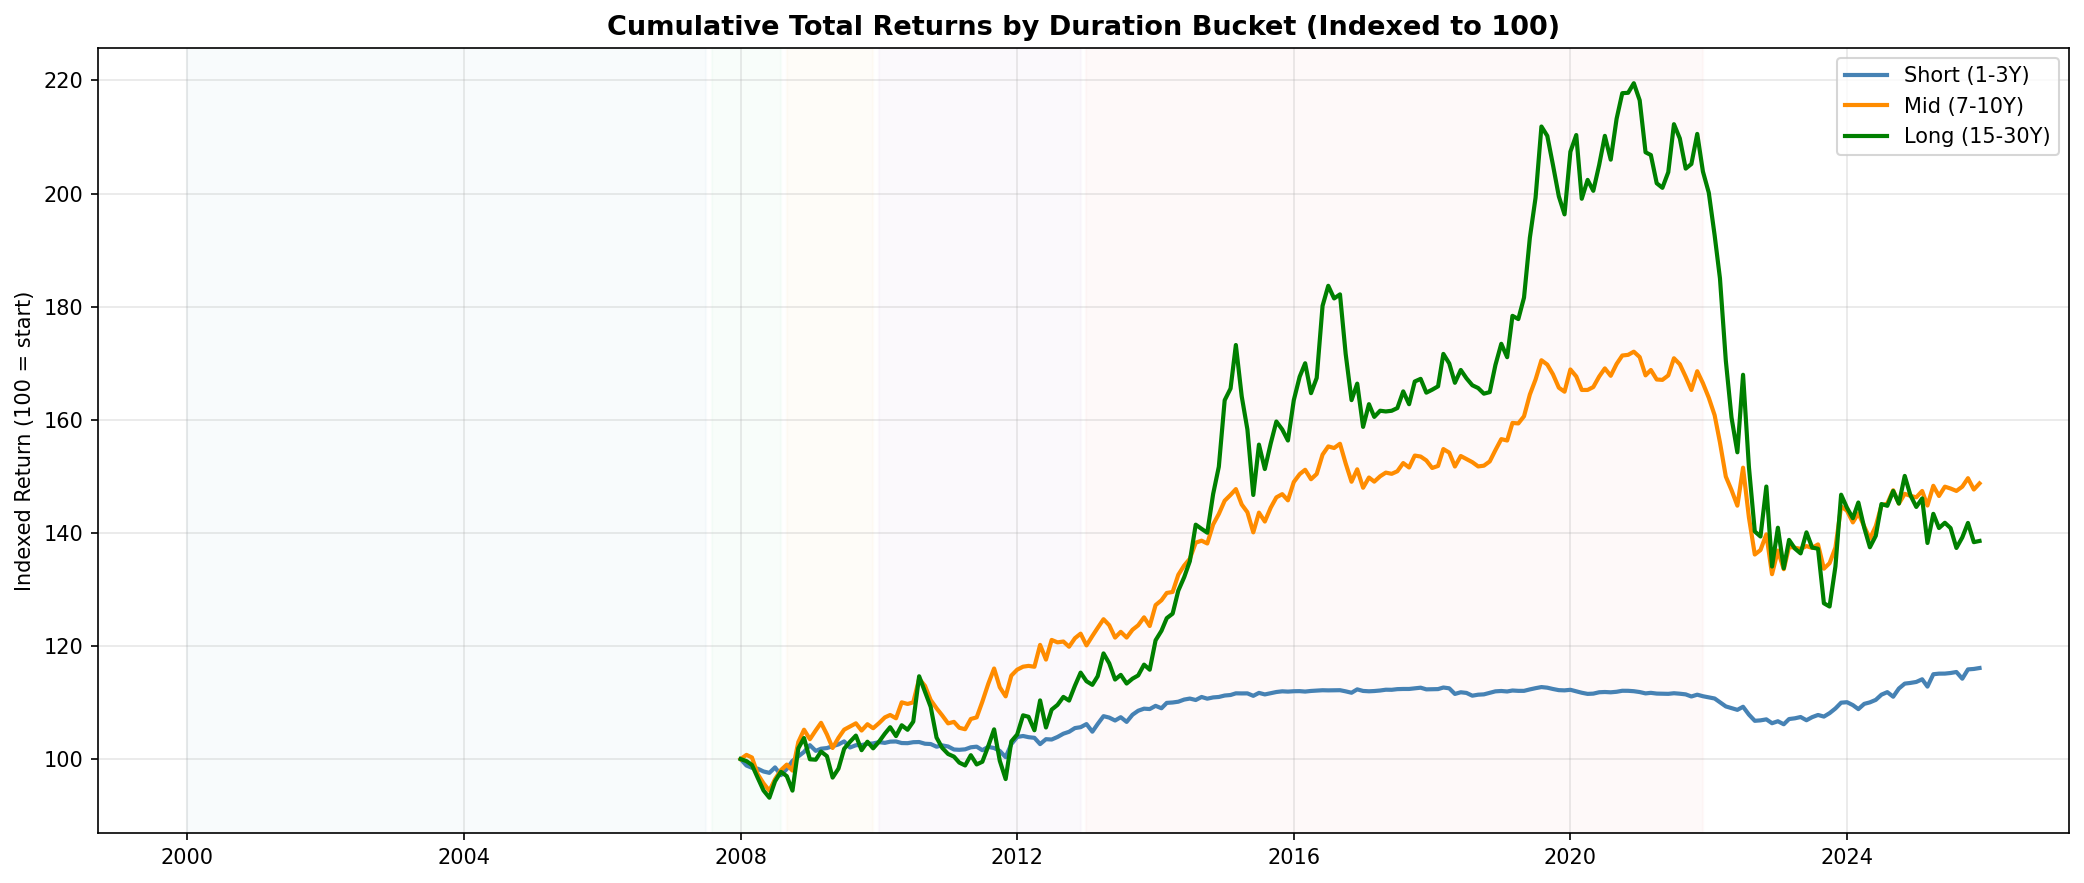
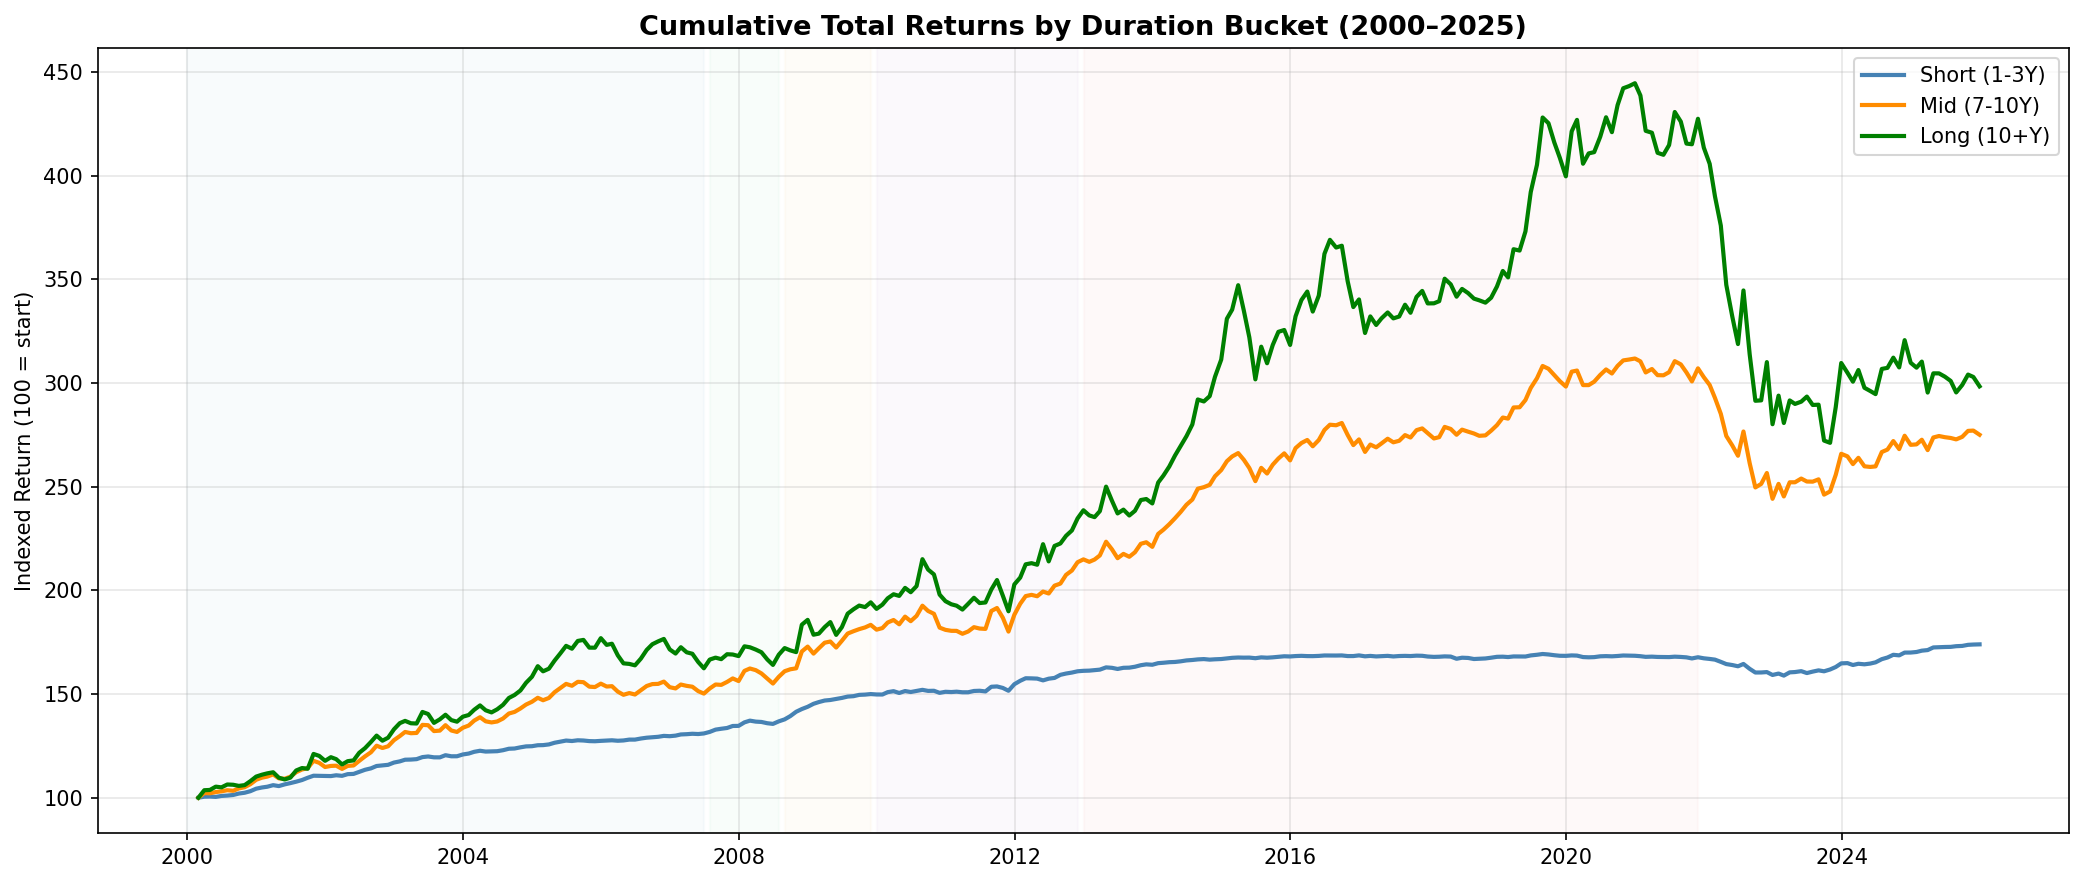
updated q3 data, data import, and data loader to inlculde full 2000s data. Switched form all return index to individual bond idexes by maturity short, mid, and logn

diff --git a/src/Q3_duration_risk.py b/src/Q3_duration_risk.py
@@ -1,34 +1,79 @@
 # src/Q3_duration_risk.py
 # ─────────────────────────────────────────────
 # Q3: Have investors historically been compensated for taking duration risk?
-# INPUT:  data/processed/etf_prices.parquet
-#         data/processed/etf_returns.parquet
-# OUTPUT: Q3_cumulative_returns.png
-#         Q3_summary_table.png
-#         Q3_drawdown.png
-#         Q3_annual_returns.png
+#
+# UPDATE (March 2026):
+#   Now uses Refinitiv iBoxx EUR Sovereign sub-indices (2000–2025)
+#   when available. Falls back to ETF data (2008–2025) if not.
 # ─────────────────────────────────────────────
 
 import pandas as pd
 import numpy as np
 import matplotlib.pyplot as plt
-import statsmodels.api as sm
 from src.config import SUBPERIODS, COLORS
-from src.data_loader import load_etf_prices, load_etf_returns
+from src.data_loader import (
+    load_etf_prices,
+    load_etf_returns,
+    load_govt_duration_returns_refinitiv,
+)
+
+
+# ── 0. Data loading — Refinitiv preferred, ETF fallback ──────
+
+def load_q3_data() -> tuple[pd.DataFrame, pd.DataFrame | None, str]:
+    """
+    Load duration bucket data.
+
+    Returns
+    -------
+    returns : DataFrame with govt_short_logret, govt_mid_logret, govt_long_logret
+    prices  : DataFrame with govt_short, govt_mid, govt_long (ETF only, None for Refinitiv)
+    source  : 'refinitiv' or 'etf'
+    """
+    ref = load_govt_duration_returns_refinitiv()
+
+    if ref is not None and len(ref) > 0:
+        source = "refinitiv"
+        print(f"\n  Q3 data source: Refinitiv iBoxx sub-indices")
+        print(f"  Sample: {ref.index.min().date()} → {ref.index.max().date()}  "
+              f"({len(ref)} months)")
+        return ref, None, source
+    else:
+        returns = load_etf_returns()
+        prices  = load_etf_prices()
+        source = "etf"
+        print(f"\n  Q3 data source: ETF proxies")
+        print(f"  Sample: {returns.index.min().date()} → {returns.index.max().date()}")
+        return returns, prices, source
+
+
+def _full_sample_dates(returns: pd.DataFrame) -> tuple[str, str]:
+    start = returns.index.min().strftime("%Y-%m")
+    end   = returns.index.max().strftime("%Y-%m")
+    return start, end
+
+
+def _bucket_labels(source: str) -> dict:
+    if source == "refinitiv":
+        return {
+            "Short (1-3Y)":  "govt_short_logret",
+            "Mid (7-10Y)":   "govt_mid_logret",
+            "Long (10+Y)":   "govt_long_logret",
+        }
+    return {
+        "Short (1-3Y)":  "govt_short_logret",
+        "Mid (7-10Y)":   "govt_mid_logret",
+        "Long (15-30Y)": "govt_long_logret",
+    }
 
 
 # ── 1. Summary statistics ─────────────────────────────────────
 
 def compute_stats(returns: pd.Series, periods_per_year: int = 12) -> dict:
-    """
-    Compute annualized return, vol, Sharpe, and max drawdown for a return series.
-    Input: monthly log returns.
-    """
     ann_return = returns.mean() * periods_per_year
     ann_vol    = returns.std() * np.sqrt(periods_per_year)
     sharpe     = ann_return / ann_vol if ann_vol > 0 else np.nan
 
-    # Max drawdown from cumulative log return index
     cum = np.exp(returns.cumsum())
     rolling_max = cum.cummax()
     drawdown = (cum - rolling_max) / rolling_max
@@ -38,23 +83,17 @@ def compute_stats(returns: pd.Series, periods_per_year: int = 12) -> dict:
         "Ann. Return (%)": round(ann_return * 100, 2),
         "Ann. Vol (%)":    round(ann_vol * 100, 2),
         "Sharpe":          round(sharpe, 2),
-        "Max Drawdown (%)":round(max_dd * 100, 2),
+        "Max Drawdown (%)": round(max_dd * 100, 2),
     }
 
 
-def compute_summary_table(returns: pd.DataFrame) -> pd.DataFrame:
-    """
-    Compute stats for short/mid/long govt buckets over full sample
-    and each sub-period.
-    """
-    buckets = {
-        "Short (1-3Y)":  "govt_short_logret",
-        "Mid (7-10Y)":   "govt_mid_logret",
-        "Long (15-30Y)": "govt_long_logret",
-    }
+def compute_summary_table(returns: pd.DataFrame, source: str) -> pd.DataFrame:
+    buckets = _bucket_labels(source)
+    full_start, full_end = _full_sample_dates(returns)
 
     rows = []
-    periods = {"Full Sample": ("2004-09", "2025-12"), **SUBPERIODS}
+    periods = {f"Full Sample ({full_start[:4]}–{full_end[:4]})": (full_start, full_end)}
+    periods.update(SUBPERIODS)
 
     for period_label, (start, end) in periods.items():
         for bucket_label, col in buckets.items():
@@ -64,71 +103,72 @@ def compute_summary_table(returns: pd.DataFrame) -> pd.DataFrame:
             if len(r) < 6:
                 continue
             stats = compute_stats(r)
-            rows.append({
-                "Period":  period_label,
-                "Bucket":  bucket_label,
-                **stats
-            })
+            rows.append({"Period": period_label, "Bucket": bucket_label, **stats})
 
     return pd.DataFrame(rows)
 
 
 # ── 2. Plots ──────────────────────────────────────────────────
 
-def plot_cumulative_returns(prices: pd.DataFrame) -> plt.Figure:
-    """Exhibit 1: Cumulative total return for short, mid, long govt bond ETFs."""
-    buckets = {
-        "Short (1-3Y)":  ("govt_short",  "steelblue"),
-        "Mid (7-10Y)":   ("govt_mid",    "darkorange"),
-        "Long (15-30Y)": ("govt_long",   "green"),
-    }
+def plot_cumulative_returns(returns: pd.DataFrame, prices: pd.DataFrame | None,
+                            source: str) -> plt.Figure:
+    """Cumulative total return for short, mid, long govt bond buckets."""
+    buckets = _bucket_labels(source)
+    bucket_colors = ["steelblue", "darkorange", "green"]
 
     fig, ax = plt.subplots(figsize=(14, 6))
 
-    for label, (col, color) in buckets.items():
-        if col not in prices.columns:
-            continue
-        series = prices[col].dropna()
-        # Normalize to 100 at start
-        normalized = series / series.iloc[0] * 100
-        ax.plot(normalized.index, normalized, label=label,
-                color=color, linewidth=2)
+    if source == "refinitiv":
+        # Build cumulative from log returns
+        for (label, col), color in zip(buckets.items(), bucket_colors):
+            if col not in returns.columns:
+                continue
+            r = returns[col].dropna()
+            cum = np.exp(r.cumsum())
+            cum = cum / cum.iloc[0] * 100
+            ax.plot(cum.index, cum, label=label, color=color, linewidth=2)
+    else:
+        # Use ETF prices
+        price_cols = {
+            "Short (1-3Y)":  "govt_short",
+            "Mid (7-10Y)":   "govt_mid",
+            "Long (15-30Y)": "govt_long",
+        }
+        for (label, col), color in zip(price_cols.items(), bucket_colors):
+            if col not in prices.columns:
+                continue
+            series = prices[col].dropna()
+            normalized = series / series.iloc[0] * 100
+            ax.plot(normalized.index, normalized, label=label, color=color, linewidth=2)
 
-    # Shade sub-periods
     for (label, (start, end)), color in zip(SUBPERIODS.items(), COLORS):
-        ax.axvspan(pd.Timestamp(start), pd.Timestamp(end),
-                   alpha=0.15, color=color)
+        ax.axvspan(pd.Timestamp(start), pd.Timestamp(end), alpha=0.15, color=color)
 
-    ax.set_title("Cumulative Total Returns by Duration Bucket (Indexed to 100)",
+    full_start, full_end = _full_sample_dates(returns)
+    ax.set_title(f"Cumulative Total Returns by Duration Bucket "
+                 f"({full_start[:4]}–{full_end[:4]})",
                  fontsize=13, fontweight="bold")
     ax.set_ylabel("Indexed Return (100 = start)")
-    ax.set_xlabel("")
     ax.legend(fontsize=10)
     ax.grid(alpha=0.3)
     fig.tight_layout()
     return fig
 
 
-def plot_drawdown(returns: pd.DataFrame) -> plt.Figure:
-    """Exhibit 2: Drawdown chart for each duration bucket."""
-    buckets = {
-        "Short (1-3Y)":  ("govt_short_logret", "steelblue"),
-        "Mid (7-10Y)":   ("govt_mid_logret",   "darkorange"),
-        "Long (15-30Y)": ("govt_long_logret",  "green"),
-    }
+def plot_drawdown(returns: pd.DataFrame, source: str) -> plt.Figure:
+    buckets = _bucket_labels(source)
+    bucket_colors = ["steelblue", "darkorange", "green"]
 
     fig, axes = plt.subplots(3, 1, figsize=(14, 10), sharex=True)
 
-    for ax, (label, (col, color)) in zip(axes, buckets.items()):
+    for ax, (label, col), color in zip(axes, buckets.items(), bucket_colors):
         if col not in returns.columns:
             continue
         r = returns[col].dropna()
         cum = np.exp(r.cumsum())
-        rolling_max = cum.cummax()
-        drawdown = (cum - rolling_max) / rolling_max * 100
+        drawdown = (cum - cum.cummax()) / cum.cummax() * 100
 
-        ax.fill_between(drawdown.index, drawdown, 0,
-                        color=color, alpha=0.4)
+        ax.fill_between(drawdown.index, drawdown, 0, color=color, alpha=0.4)
         ax.plot(drawdown.index, drawdown, color=color, linewidth=1)
         ax.set_title(f"Drawdown — {label}")
         ax.set_ylabel("Drawdown (%)")
@@ -140,20 +180,14 @@ def plot_drawdown(returns: pd.DataFrame) -> plt.Figure:
     return fig
 
 
-def plot_annual_returns(returns: pd.DataFrame) -> plt.Figure:
-    """Exhibit 3: Annual returns per bucket as grouped bar chart."""
-    buckets = {
-        "Short (1-3Y)":  "govt_short_logret",
-        "Mid (7-10Y)":   "govt_mid_logret",
-        "Long (15-30Y)": "govt_long_logret",
-    }
+def plot_annual_returns(returns: pd.DataFrame, source: str) -> plt.Figure:
+    buckets = _bucket_labels(source)
 
-    # Resample to annual
     annual = pd.DataFrame()
     for label, col in buckets.items():
         if col not in returns.columns:
             continue
-        annual[label] = returns[col].resample("YE").sum() * 100  # log return sum = annual
+        annual[label] = returns[col].resample("YE").sum() * 100
 
     fig, ax = plt.subplots(figsize=(14, 6))
     x = np.arange(len(annual))
@@ -161,8 +195,8 @@ def plot_annual_returns(returns: pd.DataFrame) -> plt.Figure:
     colors = ["steelblue", "darkorange", "green"]
 
     for i, (label, color) in enumerate(zip(annual.columns, colors)):
-        bars = ax.bar(x + i * width, annual[label], width,
-                      label=label, color=color, alpha=0.8)
+        ax.bar(x + i * width, annual[label], width,
+               label=label, color=color, alpha=0.8)
 
     ax.set_title("Annual Returns by Duration Bucket (%)",
                  fontsize=13, fontweight="bold")
@@ -177,18 +211,13 @@ def plot_annual_returns(returns: pd.DataFrame) -> plt.Figure:
 
 
 def plot_summary_table(df_table: pd.DataFrame) -> plt.Figure:
-    """Exhibit 4: Summary statistics table as figure."""
-    # Pivot so periods are rows, buckets are column groups
-    full = df_table[df_table["Period"] == "Full Sample"].copy()
-    sub  = df_table[df_table["Period"] != "Full Sample"].copy()
+    full_label = [p for p in df_table["Period"].unique() if "Full Sample" in p][0]
+    full = df_table[df_table["Period"] == full_label].copy()
+    sub  = df_table[df_table["Period"] != full_label].copy()
 
     fig, axes = plt.subplots(2, 1, figsize=(13, 8))
 
-    for ax, data, title in zip(
-        axes,
-        [full, sub],
-        ["Full Sample (2004–2025)", "By Sub-period"]
-    ):
+    for ax, data, title in zip(axes, [full, sub], [full_label, "By Sub-period"]):
         ax.axis("off")
         display_cols = ["Period", "Bucket", "Ann. Return (%)",
                         "Ann. Vol (%)", "Sharpe", "Max Drawdown (%)"]
@@ -202,12 +231,10 @@ def plot_summary_table(df_table: pd.DataFrame) -> plt.Figure:
         table.set_fontsize(9)
         table.scale(1.1, 1.6)
 
-        # Header styling
         for j in range(len(display_cols)):
             table[(0, j)].set_facecolor("#2c3e50")
             table[(0, j)].set_text_props(color="white", fontweight="bold")
 
-        # Color Sharpe column by value
         sharpe_col = display_cols.index("Sharpe")
         for i in range(1, len(data) + 1):
             val = table[(i, sharpe_col)].get_text().get_text()
@@ -229,20 +256,18 @@ def plot_summary_table(df_table: pd.DataFrame) -> plt.Figure:
 # ── 3. run_all ────────────────────────────────────────────────
 
 def run_all() -> dict:
-    """Run full Q3 analysis. Returns dict of {filename: Figure}."""
-    prices  = load_etf_prices()
-    returns = load_etf_returns()
+    returns, prices, source = load_q3_data()
 
-    # Quick console summary
-    df_table = compute_summary_table(returns)
-    print("\n── Q3 Duration Risk Summary (Full Sample) ──")
-    full = df_table[df_table["Period"] == "Full Sample"]
+    df_table = compute_summary_table(returns, source)
+    full_label = [p for p in df_table["Period"].unique() if "Full Sample" in p][0]
+    print(f"\n── Q3 Duration Risk Summary ({full_label}) ──")
+    full = df_table[df_table["Period"] == full_label]
     print(full[["Bucket", "Ann. Return (%)", "Ann. Vol (%)",
                 "Sharpe", "Max Drawdown (%)"]].to_string(index=False))
 
     return {
-        "Q3_cumulative_returns.png": plot_cumulative_returns(prices),
-        "Q3_drawdown.png":           plot_drawdown(returns),
-        "Q3_annual_returns.png":     plot_annual_returns(returns),
+        "Q3_cumulative_returns.png": plot_cumulative_returns(returns, prices, source),
+        "Q3_drawdown.png":           plot_drawdown(returns, source),
+        "Q3_annual_returns.png":     plot_annual_returns(returns, source),
         "Q3_summary_table.png":      plot_summary_table(df_table),
     }

diff --git a/data/data_import.py b/data/data_import.py
@@ -1,3 +1,5 @@
+from idlelib.autocomplete import TRY_A
+
 import refinitiv.data as rd
 import requests
 import pandas as pd
@@ -20,8 +22,8 @@ DATA_RAW.mkdir(exist_ok=True)
 import_ecb_spot     = False
 import_etf_data     = False
 import_msci         = False
-import_refinitiv    = False   # ← new flag
-import_msci_refinitiv = True
+import_refinitiv    = True   # ← new flag
+import_msci_refinitiv = False
 
 ##########################
 
@@ -88,7 +90,10 @@ def fetch_and_save_refinitiv():
 
     # ── Fetch ─────────────────────────────────────────────────
     govt_prices = fetch_series({
-        "govt_all": ".IBBEU0144",   # iBoxx EUR Sovereigns (all maturities)
+        "govt_all": ".IBBEU0144",  # iBoxx EUR Sovereigns (all maturities)
+        "govt_short": ".IBBEU0147",  # iBoxx EUR Sovereigns 1-3Y
+        "govt_mid": ".IBBEU0154",  # iBoxx EUR Sovereigns 7-10Y
+        "govt_long": ".IBBEU0145",  # iBoxx EUR Sovereigns 10+
     })
 
     corp_prices = fetch_series({

diff --git a/src/data_loader.py b/src/data_loader.py
@@ -132,4 +132,20 @@ def load_corp_returns_refinitiv() -> pd.Series | None:
         if "corp_ig_logret" in df.columns:
             return df["corp_ig_logret"]
 
+
+    return None
+
+def load_govt_duration_returns_refinitiv() -> pd.DataFrame | None:
+    """
+    Monthly iBoxx EUR Sovereign maturity sub-index log returns.
+    Columns: govt_short_logret, govt_mid_logret, govt_long_logret
+    Coverage: ~2000–2025
+    Returns None if not available.
+    """
+    path = DATA_PROCESSED / "refinitiv_returns.parquet"
+    if path.exists():
+        df = pd.read_parquet(path)
+        needed = ["govt_short_logret", "govt_mid_logret", "govt_long_logret"]
+        if all(c in df.columns for c in needed):
+            return df[needed]
     return None
